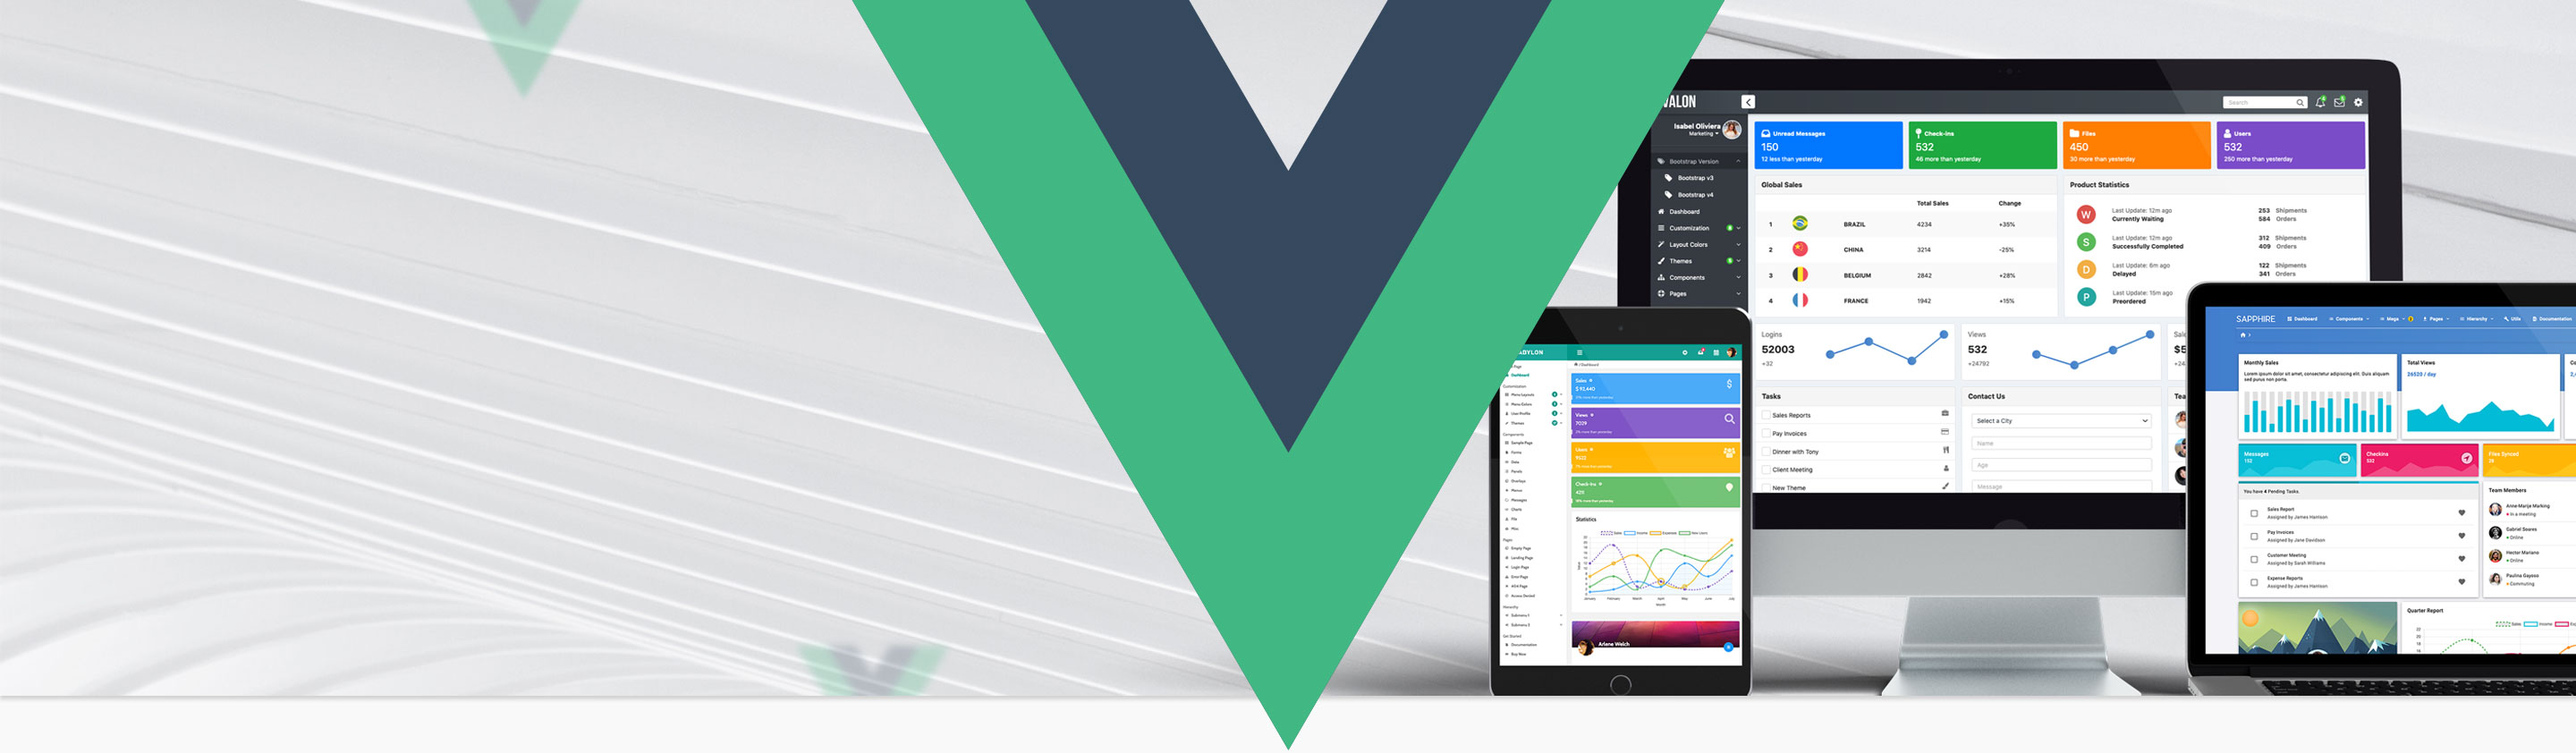
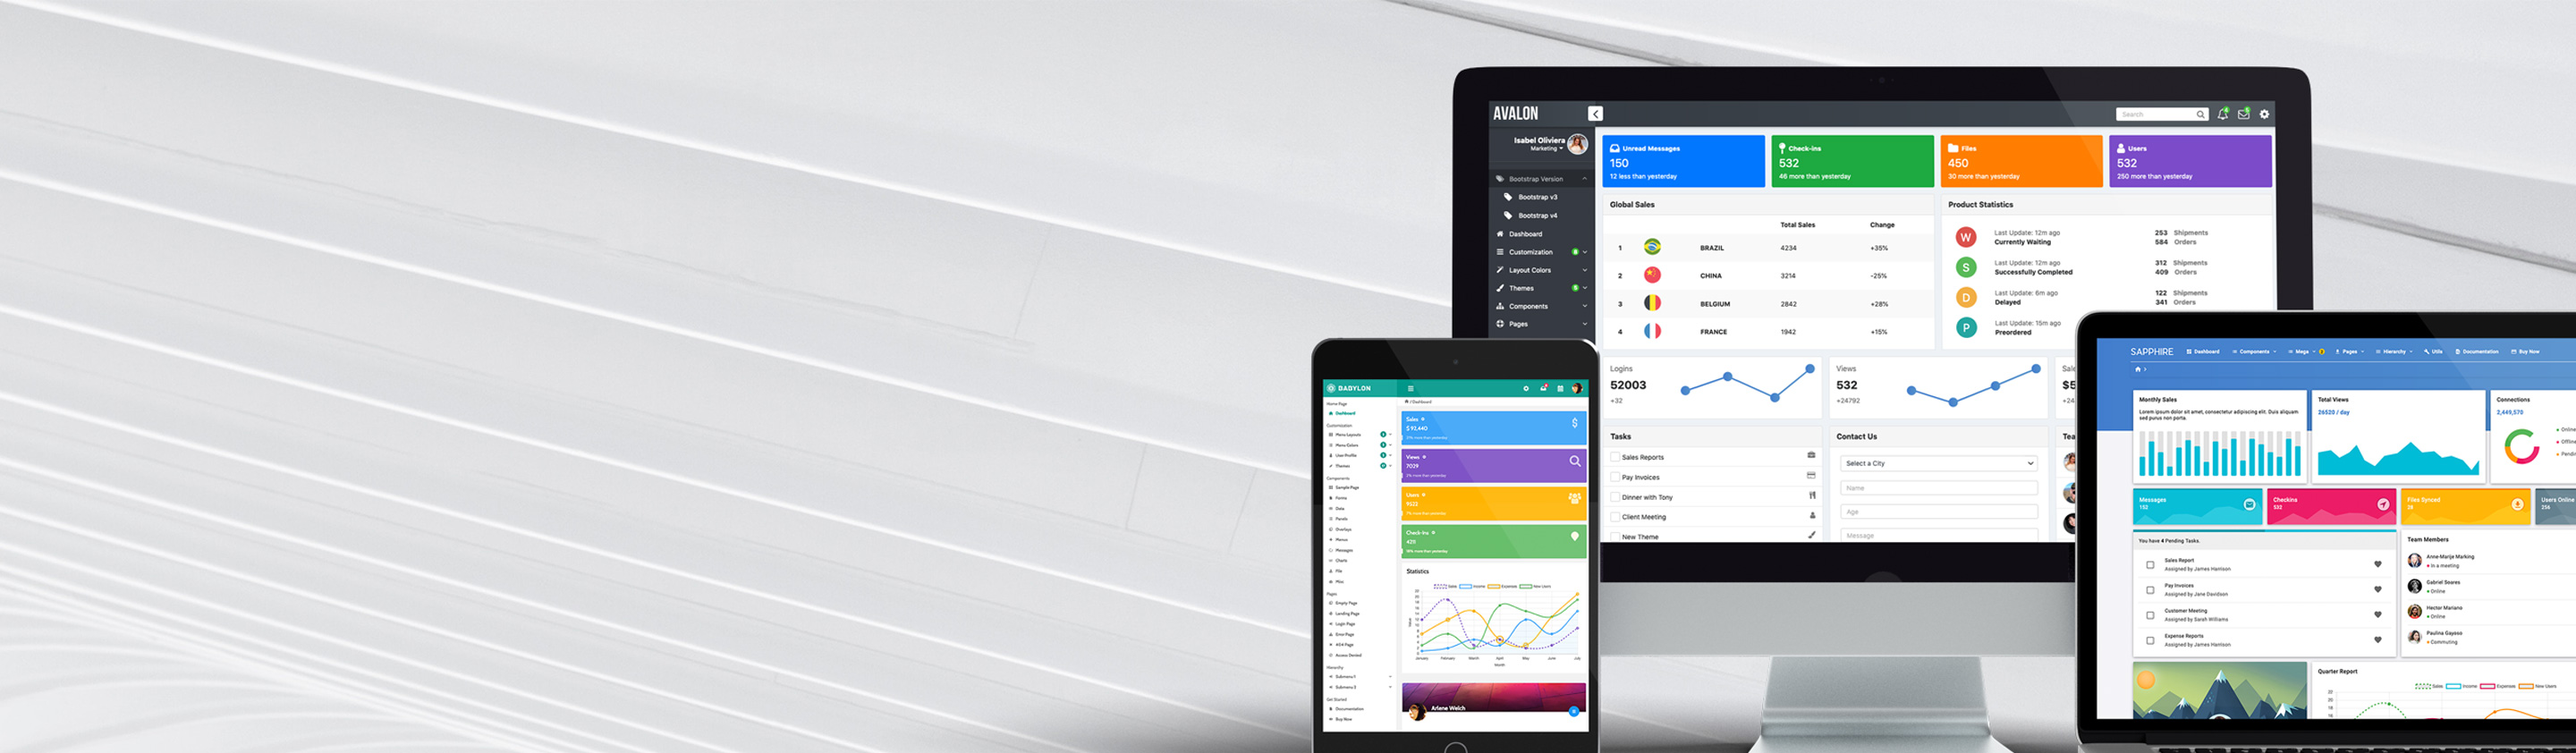
Demo cosmetics

diff --git a/src/assets/styles/app.scss b/src/assets/styles/app.scss
@@ -702,13 +702,13 @@ body {
     font-weight: bold;
     text-align: center;
     color: #ffffff;
-    background-color: #41b883;
+    background-color: #007ad9;
     padding: 10px 24px 9px 24px;
     border-radius: 3px;
     @include transition(background-color .2s);
 
     &:hover {
-        background-color: #4acf94;
+        background-color: #116fbf;
         color: #ffffff;
     }
 }
@@ -939,19 +939,21 @@ body {
             float: none;
             width: 100%;
             height: 41px;
-            margin: 0;
-            text-align: center;
+            margin: -1px 0 0 0;
             border-bottom: 1px solid #363c3f;
             border-top: 1px solid #363c3f;
 
             > li {
                 height: 40px;
                 line-height: 40px;
+                width: 25%;
+                font-size: 14px;
 
                 > a {
                     padding-bottom: 0;
                     height: 40px;
-                    min-width: 100px;
+                    width: 100%;
+                    min-width: auto;
                 }
 
                 &.topbar-menu-themes > ul {
